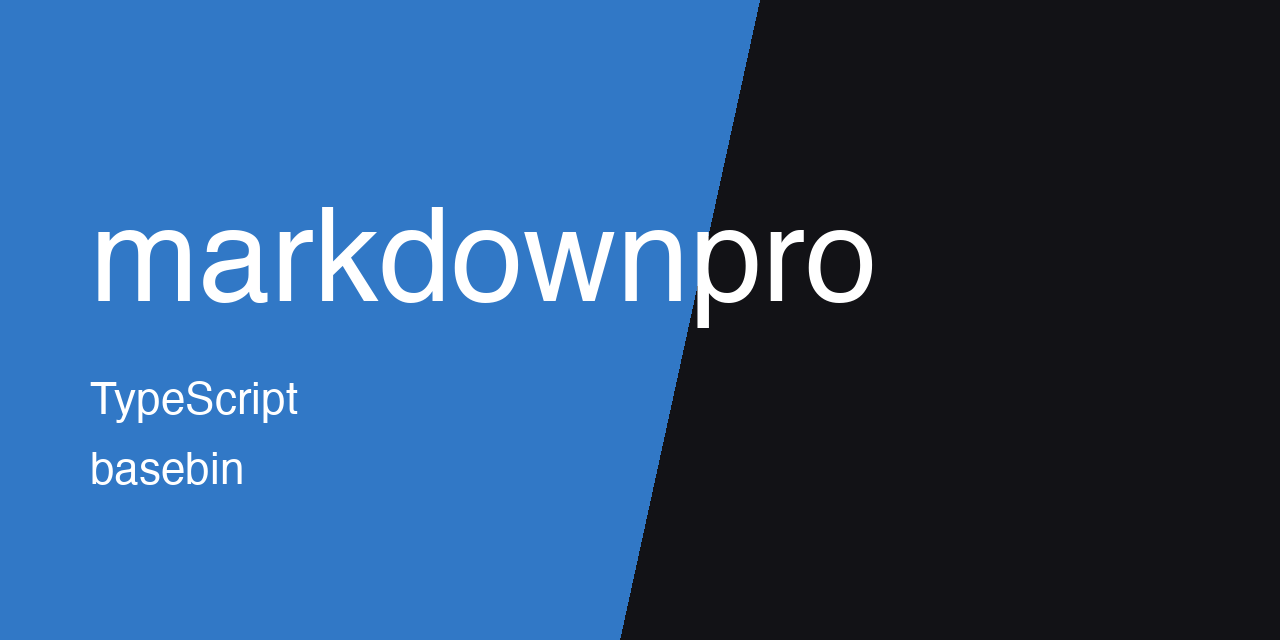
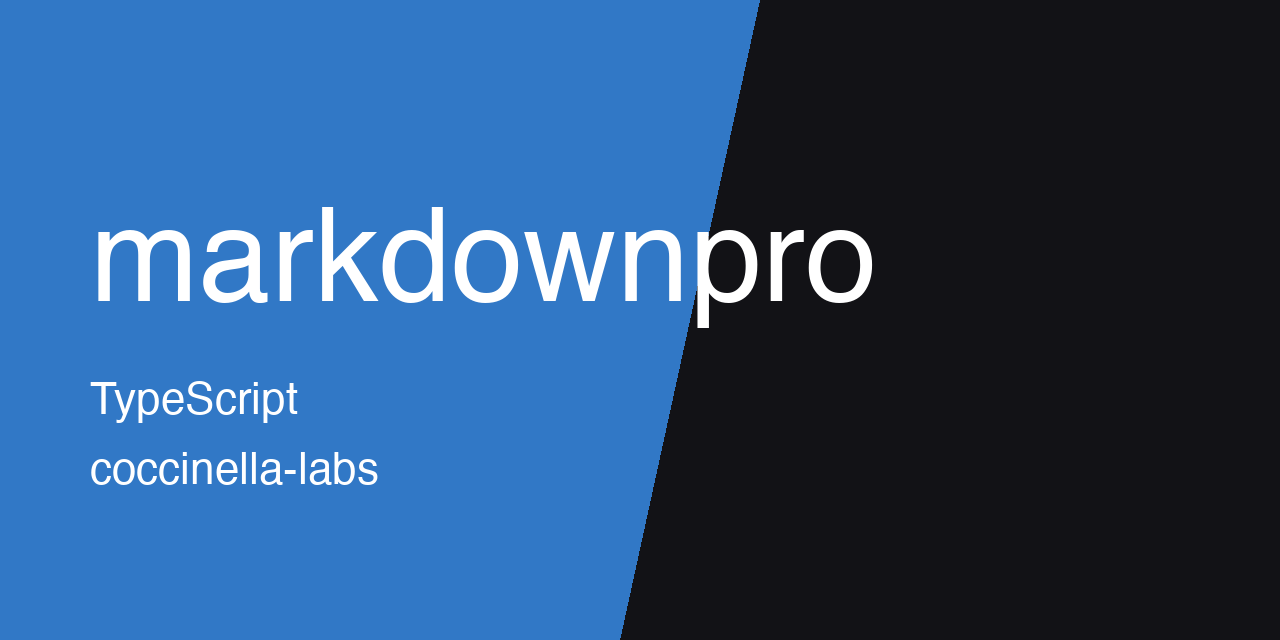
[docs] move thumbnail to coccinella-labs

Changed region(s): [[0.0625, 0.7188, 0.3125, 0.7812]]

diff --git a/README.md b/README.md
@@ -1,5 +1,5 @@
 <p align="center">
-  <img src="https://raw.githubusercontent.com/basebin/markdownpro/main/.github/assets/thumbnail.png" alt="markdownpro" width="100%">
+  <img src="https://raw.githubusercontent.com/Coccinella-Labs/markdownpro/main/.github/assets/thumbnail.png" alt="markdownpro" width="100%">
 </p>
 
 typescript app for markdown workflows.
